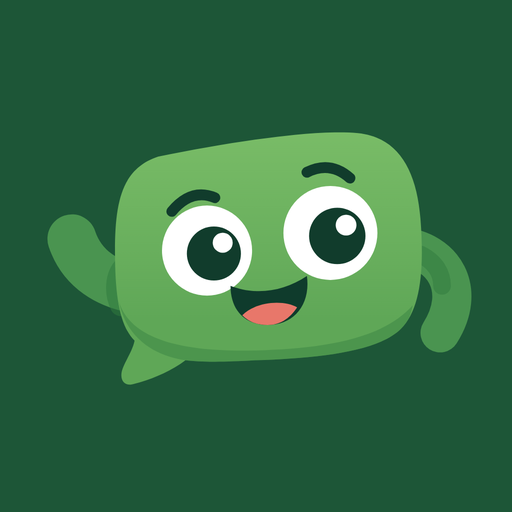
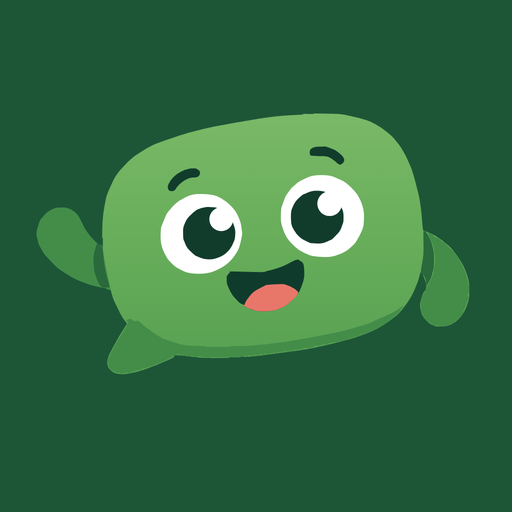
Mascota calcada de la imagen de Iván: mismas formas, sombras y colores
Contornos de cuerpo, brazo, ojos, cejas y boca trazados desde su imagen y
suavizados en vectores; cada ojo parpadea por separado. Icono regenerado.
sw.js a lexi-pwa-9.

Claude-Session: https://claude.ai/code/session_01N2aDUP8LgaaE7Rjav7c54a

Changed region(s): [[0.0625, 0.2188, 0.9062, 0.75], [0.9062, 0.5625, 0.9375, 0.625], [0.0938, 0.5, 0.125, 0.5312]]

diff --git a/index.html b/index.html
@@ -26,7 +26,7 @@
   --fd:'Fredoka',system-ui,sans-serif;--fi:'Inter',system-ui,-apple-system,'Segoe UI',Roboto,sans-serif;
   --sh:0 1px 2px rgba(17,60,44,.05),0 4px 14px rgba(17,60,44,.07);
   --lexi-sombra:rgba(26,50,35,.14);
-  --m1:#5FA757;--m2:#79BC67;--m3:#2F7A3E;--mbr:#4A9450;--mojo:#113C2C;--mboca:#0F3B2C;--mlengua:#E8776A;
+  --m0:#57A052;--m1:#67AD5A;--m2:#7AB968;--m3:#2A693B;--mbr:#438D49;--mojo:#113C2C;--mboca:#0F3B2C;--mlengua:#E8776A;
   --lx-hoja:#5FA757;--lx-prof:#1D5637;--lx-claro:#A9D69A;--lx-flor:#E8776A;--lx-tinta:#113C2C;--lx-blanco:#fff;
 }
 :root[data-theme="dark"]{
@@ -149,14 +149,12 @@ body{font-family:var(--fi);-webkit-text-size-adjust:100%}
 .mas .cuerpo{animation:lexi-flota 3.4s ease-in-out infinite alternate;transform-origin:50% 90%;transform-box:fill-box}
 .mas .sombra{animation:lexi-sombra 3.4s ease-in-out infinite alternate;transform-origin:50% 50%;transform-box:fill-box}
 .mas .ojo{animation:lexi-parpadea 5.2s infinite;transform-origin:50% 50%;transform-box:fill-box}
-.mas .brazo-i{animation:lexi-saluda 1.6s ease-in-out infinite alternate;transform-origin:60px 105px}
-.mas .brazo-d{animation:lexi-mece 3.4s ease-in-out infinite alternate;transform-origin:196px 85px}
+.mas .brazo-i{animation:lexi-saluda 1.6s ease-in-out infinite alternate;transform-origin:36.3px 77.5px}
 .mas.quieta *{animation:none!important}
 @keyframes lexi-flota{from{transform:translateY(0) rotate(-1.5deg)}to{transform:translateY(-6px) rotate(1.5deg)}}
 @keyframes lexi-sombra{from{transform:scaleX(1);opacity:.14}to{transform:scaleX(.85);opacity:.08}}
 @keyframes lexi-parpadea{0%,91%,100%{transform:scaleY(1)}94%{transform:scaleY(.08)}}
-@keyframes lexi-saluda{from{transform:rotate(-8deg)}to{transform:rotate(14deg)}}
-@keyframes lexi-mece{from{transform:rotate(-4deg)}to{transform:rotate(5deg)}}
+@keyframes lexi-saluda{from{transform:rotate(-6deg)}to{transform:rotate(12deg)}}
 @media (prefers-reduced-motion:reduce){.mas *{animation:none!important}}
 </style>
 </head>
@@ -208,28 +206,21 @@ function toast(m) { const t = document.createElement('div'); t.className = 'toas
 
 /* ---- js/14-mascota.js ---- */
 /* ===== Mascota de Lexi: un bocadillo de palabras (diseño de Iván, 17-11-2026) =====
-   Dibujada en vectores, como las de Calculi, Lectori y Barri: se ve nítida a cualquier tamaño.
-   Flota, parpadea y saluda con el brazo izquierdo. Los brazos son piezas aparte que nacen
-   dentro del cuerpo: al girar nunca se abre un hueco. Colores en --m1…--mlengua (estilos.css). */
+   Calcada en vectores de la imagen de Iván (tools: contornos suavizados), como las mascotas de
+   Calculi, Lectori y Barri: se ve nítida a cualquier tamaño. Flota, parpadea y saluda con el brazo
+   izquierdo; el brazo es una pieza aparte con un trozo escondido bajo el cuerpo, así que al girar
+   nunca se abre un hueco. Colores en --m0…--mlengua (estilos.css). */
 function mascota(tam = 240, quieta = false) {
-  const ojo = (cx, cy, r) => `<g class="ojo"><circle cx="${cx}" cy="${cy}" r="${r}" fill="#fff"/>`
-    + `<circle cx="${cx + 3.5}" cy="${cy + 1.5}" r="${(r * .6).toFixed(1)}" fill="var(--mojo)"/>`
-    + `<circle cx="${cx + 8}" cy="${cy - 4}" r="${(r * .22).toFixed(1)}" fill="#fff"/></g>`;
-  const borde = 'M70 38C110 30 150 24 172 26C192 28 202 44 204 70C206 96 204 116 194 126C182 138 150 141 120 142C104 143 92 143 84 142C76 148 66 152 58 154C52 156 50 151 52 146C54 141 57 137 58 132C50 124 48 108 48 86C48 60 52 44 70 38Z';
-  return `<svg class="mas${quieta ? ' quieta' : ''}" width="${tam}" height="${Math.round(tam * 176 / 240)}" viewBox="0 0 240 176" role="img" aria-label="Lexi, la mascota">
-  <defs><linearGradient id="lexi-g" x1="0" y1="0" x2="0" y2="1"><stop offset="0" style="stop-color:var(--m2)"/><stop offset=".75" style="stop-color:var(--m1)"/></linearGradient></defs>
-  <ellipse class="sombra" cx="124" cy="166" rx="56" ry="6" fill="currentColor" opacity=".12"/>
+  return `<svg class="mas${quieta ? ' quieta' : ''}" width="${tam}" height="${Math.round(tam * 148 / 216)}" viewBox="0 0 216 148" role="img" aria-label="Lexi, la mascota">
+  <defs><linearGradient id="lexi-g" gradientUnits="userSpaceOnUse" x1="0" y1="3" x2="0" y2="130"><stop offset="0" style="stop-color:var(--m2)"/><stop offset=".5" style="stop-color:var(--m1)"/><stop offset="1" style="stop-color:var(--m0)"/></linearGradient></defs>
+  <ellipse class="sombra" cx="111" cy="137.5" rx="55" ry="6.8" fill="currentColor" opacity=".12"/>
   <g class="cuerpo">
-    <g class="brazo-d"><path d="M194 84C216 86 228 106 214 128" fill="none" stroke="var(--mbr)" stroke-width="20" stroke-linecap="round"/>
-      <path d="M204 88C212 92 215 98 215 104" fill="none" stroke="var(--m3)" stroke-width="9" stroke-linecap="round" opacity=".5"/></g>
-    <g class="brazo-i"><path d="M62 106C44 104 31 95 26 80" fill="none" stroke="var(--mbr)" stroke-width="25" stroke-linecap="round"/>
-      <path d="M53 94C48 99 48 108 51 114" fill="none" stroke="var(--m3)" stroke-width="11" stroke-linecap="round" opacity=".55"/></g>
-    <path d="${borde}" fill="url(#lexi-g)"/>
-    <path d="M50 112C56 132 84 138 120 137C152 136 184 132 200 114C199 120 197 123 194 126C182 138 150 141 120 142C104 143 92 143 84 142C70 140 54 132 50 112Z" fill="var(--m3)" opacity=".4"/>
-    <path d="M77 66Q87 54 99 59M146 46Q158 40 168 49" fill="none" stroke="var(--mojo)" stroke-width="5.5" stroke-linecap="round"/>
-    ${ojo(95, 86, 23)}${ojo(158, 77, 24)}
-    <path d="M107 104C120 109 134 107 146 99C148 114 139 124 126 124C115 124 107 117 107 104Z" fill="var(--mboca)"/>
-    <path d="M113 119C120 112 134 111 141 115C137 121 132 124 126 124C120 124 116 122 113 119Z" fill="var(--mlengua)"/>
+    <g class="brazo-i"><ellipse cx="39.8" cy="77.5" rx="9" ry="11" fill="var(--mbr)"/><path d="M8.5 51.0C7.6 51.7 6.4 53.0 5.8 53.8C5.1 54.5 4.9 54.7 4.5 55.8C4.1 56.8 3.5 59.1 3.2 60.2C3.0 61.4 3.1 61.5 3.2 62.5C3.4 63.5 3.8 65.2 4.2 66.5C4.8 67.8 5.6 69.2 6.2 70.2C6.9 71.2 6.8 71.2 8.0 72.5C9.2 73.8 11.5 76.2 13.2 77.8C15.0 79.2 17.1 80.5 18.8 81.5C20.4 82.5 21.6 83.0 23.2 83.8C24.9 84.5 26.8 85.2 28.5 85.8C30.2 86.3 31.9 86.7 33.5 87.0C35.1 87.3 37.2 87.5 38.0 87.5C38.8 87.5 38.6 88.7 38.2 86.8C37.9 84.8 36.3 79.2 35.8 76.0C35.2 72.8 35.2 69.3 34.8 67.8C34.2 66.2 33.7 67.3 32.8 66.5C31.8 65.7 30.1 64.0 29.0 62.8C27.9 61.5 27.2 60.4 26.2 58.8C25.2 57.1 24.0 54.2 23.0 52.8C22.0 51.3 21.2 50.9 20.2 50.2C19.2 49.6 18.2 49.2 17.0 49.0C15.8 48.8 14.0 48.9 13.0 49.0C12.0 49.1 12.0 49.2 11.2 49.5C10.5 49.8 9.4 50.3 8.5 51.0Z" fill="var(--mbr)"/><path d="M32.0 66.2C31.6 67.1 30.8 70.0 30.5 71.8C30.2 73.5 30.4 75.5 30.5 77.0C30.6 78.5 30.7 79.4 31.2 81.0C31.8 82.6 32.7 85.5 33.8 86.5C34.8 87.5 37.1 87.1 37.8 87.0C38.4 86.9 38.1 87.3 37.8 85.8C37.4 84.2 36.3 80.7 35.8 77.8C35.2 74.8 35.0 70.1 34.5 68.2C34.0 66.4 33.4 67.1 33.0 66.8C32.6 66.4 32.4 65.4 32.0 66.2Z" fill="var(--m3)"/></g>
+    <path d="M208.8 81.0C208.2 79.3 207.4 77.2 206.2 75.2C205.1 73.3 203.2 70.7 202.0 69.2C200.8 67.8 200.3 67.4 199.2 66.5C198.2 65.6 197.0 64.6 195.8 63.8C194.5 62.9 193.2 62.1 192.0 61.5C190.8 60.9 189.2 60.4 188.5 60.0C187.8 59.6 188.0 60.8 187.8 59.2C187.5 57.8 187.3 53.7 187.0 51.0C186.7 48.3 186.4 46.2 185.8 43.2C185.1 40.3 184.0 35.8 183.2 33.2C182.5 30.7 182.1 29.7 181.2 27.8C180.4 25.8 179.2 23.5 178.2 21.8C177.2 20.0 176.3 18.8 175.2 17.5C174.2 16.2 173.5 15.3 172.0 14.0C170.5 12.7 168.2 10.9 166.2 9.8C164.3 8.6 162.6 7.8 160.2 7.0C157.9 6.2 154.5 5.5 152.2 5.0C150.0 4.5 149.2 4.4 146.5 4.2C143.8 4.1 137.8 4.0 136.0 4.0C134.2 4.0 136.7 4.2 135.8 4.2C134.8 4.3 131.4 4.2 130.5 4.2C129.6 4.3 131.8 4.4 130.2 4.5C128.8 4.6 125.0 4.7 121.5 5.0C118.0 5.3 114.8 5.6 109.2 6.5C103.7 7.4 93.8 9.1 88.2 10.2C82.7 11.4 80.1 12.0 75.8 13.2C71.4 14.5 65.4 16.5 62.0 17.8C58.6 19.0 57.0 20.0 55.2 21.0C53.5 22.0 52.5 22.7 51.2 23.5C50.0 24.3 49.4 24.7 48.0 26.0C46.6 27.3 44.3 29.7 43.0 31.2C41.7 32.8 41.2 33.5 40.2 35.2C39.3 37.0 37.9 40.1 37.2 41.8C36.6 43.4 36.7 42.9 36.2 45.0C35.8 47.1 35.0 51.2 34.8 54.2C34.5 57.3 34.5 61.7 34.5 63.2C34.5 64.8 34.7 62.5 34.8 63.5C34.8 64.5 34.8 67.4 35.0 69.5C35.2 71.6 35.3 72.6 36.0 76.0C36.7 79.4 38.1 86.6 39.0 90.0C39.9 93.4 40.6 94.3 41.5 96.2C42.4 98.2 43.5 100.2 44.2 101.5C45.0 102.8 45.7 103.4 46.0 104.0C46.3 104.6 46.7 103.8 46.0 105.0C45.3 106.2 43.3 109.2 42.0 111.5C40.7 113.8 39.1 116.8 38.2 118.5C37.4 120.2 37.2 121.1 37.0 122.0C36.8 122.9 36.9 123.4 37.0 124.0C37.1 124.6 37.2 125.1 37.8 125.8C38.2 126.4 39.2 127.3 40.0 127.8C40.8 128.2 41.8 128.4 42.8 128.5C43.7 128.6 44.4 128.7 45.8 128.5C47.1 128.3 48.8 128.0 50.8 127.5C52.8 127.0 54.9 126.3 57.8 125.2C60.6 124.2 65.6 122.0 67.8 121.0C69.9 120.0 67.9 119.5 70.5 119.5C73.1 119.5 79.2 120.5 83.2 120.8C87.3 121.0 92.8 120.8 94.8 120.8C96.7 120.7 94.0 120.5 95.0 120.5C96.0 120.5 99.5 120.5 100.5 120.5C101.5 120.5 99.7 120.3 100.8 120.2C101.8 120.2 102.2 120.5 107.0 120.0C111.8 119.5 124.2 117.8 129.8 117.0C135.3 116.2 136.6 115.8 140.2 115.0C143.9 114.2 148.6 113.0 151.5 112.2C154.4 111.5 155.6 111.0 157.8 110.2C159.9 109.5 162.8 108.3 164.5 107.5C166.2 106.7 166.5 106.6 168.2 105.5C170.0 104.4 173.1 102.1 174.8 100.8C176.4 99.4 176.8 99.0 178.0 97.5C179.2 96.0 180.8 93.8 182.0 91.8C183.2 89.7 184.2 87.2 185.0 85.2C185.8 83.3 186.2 81.1 186.5 80.2C186.8 79.4 186.8 80.1 187.0 80.2C187.2 80.4 187.4 80.5 187.8 81.2C188.1 82.0 189.0 83.9 189.2 85.0C189.5 86.1 189.5 86.9 189.2 87.8C189.0 88.6 188.2 89.1 187.8 90.2C187.3 91.4 186.7 93.2 186.5 94.5C186.3 95.8 186.5 97.1 186.8 98.2C187.0 99.4 187.4 100.3 188.0 101.2C188.6 102.2 189.7 103.3 190.5 104.0C191.3 104.7 192.1 105.0 192.8 105.2C193.4 105.5 193.4 105.7 194.5 105.8C195.6 105.8 198.0 105.8 199.2 105.5C200.5 105.2 201.5 104.7 202.2 104.2C203.0 103.8 203.3 103.7 204.0 103.0C204.7 102.3 205.8 101.3 206.5 100.2C207.2 99.2 208.0 97.9 208.5 96.5C209.0 95.1 209.5 93.9 209.8 92.0C210.0 90.1 209.9 87.1 209.8 85.2C209.6 83.4 209.3 82.7 208.8 81.0Z" fill="url(#lexi-g)"/>
+    <path d="M178.2 96.0C177.5 96.4 175.9 97.8 173.5 99.0C171.1 100.2 166.3 102.4 163.8 103.5C161.2 104.6 160.8 104.7 158.0 105.5C155.2 106.3 152.5 107.3 146.8 108.5C141.0 109.7 130.4 111.7 123.8 112.8C117.1 113.8 111.7 114.3 107.0 114.8C102.3 115.2 97.7 115.1 95.8 115.2C93.8 115.4 97.5 115.5 95.5 115.5C93.5 115.5 86.0 115.5 84.0 115.5C82.0 115.5 85.2 115.4 83.8 115.2C82.2 115.1 77.1 115.0 75.0 114.8C72.9 114.5 72.7 114.5 71.0 114.0C69.3 113.5 66.4 112.6 64.8 112.0C63.1 111.4 62.8 111.2 61.2 110.2C59.7 109.3 57.0 107.4 55.5 106.2C54.0 105.1 53.0 103.8 52.0 103.2C51.0 102.8 50.3 103.4 49.8 103.2C49.2 103.1 49.1 102.7 48.8 102.5C48.4 102.3 48.0 102.2 47.5 102.2C47.0 102.3 46.2 102.6 46.0 103.0C45.8 103.4 47.4 102.8 46.5 104.8C45.6 106.7 42.1 112.0 40.8 114.5C39.4 117.0 38.8 118.2 38.2 119.5C37.7 120.8 37.4 121.4 37.2 122.2C37.1 123.1 37.2 124.0 37.5 124.8C37.8 125.5 38.5 126.2 39.2 126.8C40.0 127.3 41.2 127.8 41.8 128.0C42.3 128.2 42.5 127.7 42.8 127.8C43.0 127.8 42.9 128.2 43.2 128.2C43.6 128.3 44.6 128.3 45.0 128.2C45.4 128.2 45.4 127.8 45.8 127.8C46.1 127.7 46.6 128.0 47.0 128.0C47.4 128.0 48.0 127.9 48.2 127.8C48.5 127.6 48.6 127.3 48.8 127.2C48.9 127.2 48.9 127.6 49.2 127.5C49.6 127.4 50.2 126.9 50.8 126.8C51.3 126.6 52.3 126.6 52.8 126.5C53.2 126.4 52.6 126.3 53.5 126.0C54.4 125.7 56.0 125.5 58.0 124.8C60.0 124.0 63.7 122.5 65.8 121.5C67.8 120.5 69.5 119.4 70.5 119.0C71.5 118.6 71.2 118.9 71.5 119.0C71.8 119.1 72.0 119.5 72.2 119.5C72.5 119.5 72.5 119.2 72.8 119.2C73.0 119.3 73.6 119.7 74.0 119.8C74.4 119.8 74.6 119.5 75.0 119.5C75.4 119.5 75.8 120.0 76.2 120.0C76.7 120.0 77.2 119.7 77.8 119.8C78.2 119.8 78.6 120.2 79.2 120.2C79.9 120.3 80.7 120.0 81.5 120.0C82.3 120.0 80.9 120.5 84.0 120.5C87.1 120.5 97.3 120.4 100.2 120.2C103.2 120.1 101.2 119.8 101.8 119.8C102.3 119.7 103.2 120.0 103.8 120.0C104.2 120.0 104.2 119.5 104.8 119.5C105.2 119.5 106.2 119.8 106.8 119.8C107.2 119.7 107.3 119.3 107.8 119.2C108.2 119.2 108.9 119.5 109.2 119.5C109.6 119.5 109.6 119.0 110.0 119.0C110.4 119.0 111.1 119.3 111.5 119.2C111.9 119.2 112.1 118.8 112.5 118.8C112.9 118.7 113.3 119.0 113.8 119.0C114.2 119.0 114.7 118.5 115.0 118.5C115.3 118.5 115.5 118.8 115.8 118.8C116.0 118.7 116.4 118.3 116.8 118.2C117.1 118.2 117.4 118.5 117.8 118.5C118.1 118.5 118.5 118.0 118.8 118.0C119.0 118.0 119.2 118.3 119.5 118.2C119.8 118.2 120.0 117.8 120.2 117.8C120.5 117.7 121.0 118.0 121.2 118.0C121.5 118.0 121.7 117.5 122.0 117.5C122.3 117.5 122.9 117.8 123.2 117.8C123.6 117.7 123.7 117.3 124.0 117.2C124.3 117.2 124.7 117.5 125.0 117.5C125.3 117.5 125.4 117.1 125.8 117.0C126.1 116.9 126.9 116.8 127.2 116.8C127.6 116.8 127.8 117.0 128.0 117.0C128.2 117.0 128.5 116.5 128.8 116.5C129.0 116.5 129.5 116.8 129.8 116.8C130.0 116.7 129.6 116.4 130.5 116.2C131.4 116.1 134.4 115.9 135.2 115.8C136.1 115.6 135.5 115.4 135.8 115.2C136.0 115.1 136.7 115.0 137.0 115.0C137.3 115.0 137.1 115.3 137.5 115.2C137.9 115.2 138.7 114.7 139.5 114.5C140.3 114.3 141.9 114.4 142.5 114.2C143.1 114.1 141.5 114.1 143.0 113.8C144.5 113.4 148.0 113.0 151.5 112.0C155.0 111.0 161.0 108.8 164.0 107.5C167.0 106.2 168.0 105.5 169.5 104.5C171.0 103.5 172.0 102.8 173.2 101.8C174.5 100.7 176.4 98.9 177.0 98.2C177.6 97.6 176.8 98.0 177.0 97.8C177.2 97.5 178.0 96.8 178.2 96.5C178.5 96.2 179.0 95.6 178.2 96.0ZM190.0 61.0C190.0 61.8 192.0 65.2 192.5 66.8C193.0 68.3 193.1 69.0 193.2 70.2C193.4 71.5 193.5 72.6 193.5 74.0C193.5 75.4 193.2 77.1 193.0 78.5C192.8 79.9 193.0 80.0 192.0 82.2C191.0 84.5 188.1 90.2 187.2 92.2C186.4 94.3 186.8 93.5 186.8 94.5C186.7 95.5 186.7 97.0 187.0 98.2C187.3 99.5 188.0 101.0 188.8 102.0C189.5 103.0 190.3 103.7 191.2 104.2C192.2 104.8 193.3 105.3 194.5 105.5C195.7 105.7 197.2 105.6 198.2 105.5C199.3 105.4 200.0 105.1 200.8 104.8C201.5 104.4 202.2 104.0 203.0 103.5C203.8 103.0 204.6 102.2 205.2 101.5C205.9 100.8 206.1 100.9 206.8 99.5C207.4 98.1 208.8 94.5 209.2 93.2C209.7 92.0 209.5 92.2 209.5 91.8C209.5 91.3 209.2 90.9 209.2 90.5C209.3 90.1 209.7 90.4 209.8 89.5C209.8 88.6 209.9 87.2 209.5 85.2C209.1 83.3 208.3 80.2 207.2 77.8C206.2 75.3 204.6 72.8 203.0 70.8C201.4 68.7 198.7 66.4 197.8 65.5C196.8 64.6 197.6 65.8 197.2 65.5C196.9 65.2 196.4 64.5 195.8 64.0C195.1 63.5 193.8 63.1 193.2 62.8C192.7 62.4 193.0 62.3 192.5 62.0C192.0 61.7 190.0 60.2 190.0 61.0Z" fill="var(--mbr)"/><path d="M188.5 60.2C188.2 60.2 188.1 59.2 188.0 61.0C187.9 62.8 188.2 67.9 188.0 71.0C187.8 74.1 186.8 78.0 186.8 79.8C186.8 81.5 187.6 80.7 188.0 81.2C188.4 81.8 188.8 82.5 189.0 83.2C189.2 84.0 189.4 85.5 189.5 86.0C189.6 86.5 189.4 86.5 189.8 86.0C190.1 85.5 191.0 83.8 191.5 82.8C192.0 81.7 192.2 80.5 192.5 79.5C192.8 78.5 192.9 78.2 193.0 76.8C193.1 75.3 193.2 72.6 193.0 70.8C192.8 68.9 192.3 67.1 191.8 65.5C191.2 63.9 190.0 61.9 189.5 61.0C189.0 60.1 188.8 60.2 188.5 60.2Z" fill="var(--m3)"/>
+    <path d="M81.0 31.5C80.8 31.2 80.6 31.0 80.2 30.8C79.9 30.5 79.5 30.3 79.0 30.2C78.5 30.2 77.8 30.2 77.0 30.2C76.2 30.3 75.4 30.5 74.5 30.8C73.6 31.0 72.7 31.5 71.8 32.0C70.8 32.5 69.8 33.3 69.0 34.0C68.2 34.7 67.8 35.3 67.2 36.0C66.8 36.7 66.2 37.6 66.0 38.2C65.8 38.9 65.8 39.5 66.0 40.0C66.2 40.5 66.5 40.9 67.0 41.0C67.5 41.1 68.4 41.2 69.0 40.8C69.6 40.3 70.0 39.3 70.8 38.5C71.5 37.7 72.8 36.6 73.8 36.0C74.7 35.4 75.6 35.0 76.5 34.8C77.4 34.5 78.6 34.6 79.2 34.5C79.9 34.4 80.2 34.3 80.5 34.0C80.8 33.7 81.2 33.2 81.2 32.8C81.3 32.3 81.2 31.8 81.0 31.5ZM133.8 21.8C133.6 22.2 133.6 22.8 133.8 23.2C133.9 23.7 133.5 24.0 134.8 24.2C136.0 24.5 139.8 24.2 141.5 24.5C143.2 24.8 144.0 25.6 145.0 26.2C146.0 26.9 146.9 27.9 147.5 28.2C148.1 28.6 148.3 28.5 148.8 28.2C149.2 28.0 149.8 27.5 150.0 27.0C150.2 26.5 150.2 26.0 150.0 25.5C149.8 25.0 149.5 24.4 148.8 23.8C148.0 23.1 146.9 22.1 145.8 21.5C144.6 20.9 143.0 20.3 142.0 20.0C141.0 19.7 141.0 19.8 140.0 19.8C139.0 19.8 137.2 19.8 136.2 20.0C135.3 20.2 134.9 20.5 134.5 20.8C134.1 21.0 133.9 21.3 133.8 21.8Z" fill="var(--mojo)"/>
+    <g class="ojo"><path d="M137.0 33.5C135.7 33.6 134.8 33.8 133.5 34.2C132.2 34.7 130.4 35.6 129.2 36.2C128.1 36.9 127.5 37.3 126.8 38.0C126.0 38.7 125.2 39.3 124.5 40.2C123.8 41.2 122.9 42.2 122.2 43.5C121.6 44.8 120.9 46.9 120.5 48.0C120.1 49.1 120.1 49.0 120.0 50.2C119.9 51.5 119.8 54.2 120.0 55.8C120.2 57.3 120.6 58.3 121.0 59.5C121.4 60.7 121.9 61.8 122.5 62.8C123.1 63.8 123.6 64.5 124.5 65.5C125.4 66.5 126.8 67.8 128.0 68.8C129.2 69.7 130.7 70.4 132.0 71.0C133.3 71.6 134.1 72.0 136.0 72.2C137.9 72.5 141.2 72.7 143.2 72.5C145.2 72.3 146.8 71.7 148.0 71.2C149.2 70.8 149.6 70.5 150.5 70.0C151.4 69.5 152.3 68.8 153.2 68.0C154.2 67.2 155.1 66.4 156.0 65.0C156.9 63.6 158.2 61.0 158.8 59.5C159.3 58.0 159.4 57.7 159.5 56.2C159.6 54.8 159.7 52.5 159.5 51.0C159.3 49.5 158.9 48.2 158.5 47.0C158.1 45.8 157.5 44.7 157.0 43.8C156.5 42.8 156.1 42.2 155.2 41.2C154.4 40.3 153.0 38.8 152.0 38.0C151.0 37.2 150.7 36.9 149.5 36.2C148.3 35.6 146.3 34.7 145.0 34.2C143.7 33.8 142.8 33.6 141.5 33.5C140.2 33.4 138.3 33.4 137.0 33.5Z" fill="#fff"/><path d="M135.2 41.0C133.7 41.2 132.0 42.1 131.0 42.5C130.0 42.9 130.2 42.9 129.5 43.5C128.8 44.1 127.7 45.1 127.0 46.0C126.3 46.9 125.9 47.9 125.5 48.8C125.1 49.6 124.9 50.1 124.8 51.2C124.6 52.4 124.7 54.7 124.8 55.8C124.8 56.8 125.0 57.0 125.2 57.8C125.5 58.5 126.0 59.5 126.5 60.2C127.0 61.0 127.5 61.7 128.0 62.2C128.5 62.8 129.0 63.2 129.8 63.8C130.5 64.2 131.6 64.9 132.5 65.2C133.4 65.6 133.8 65.9 135.0 66.0C136.2 66.1 138.1 66.2 139.5 66.0C140.9 65.8 142.6 64.9 143.5 64.5C144.4 64.1 144.3 64.2 145.0 63.5C145.7 62.8 147.1 61.4 147.8 60.5C148.4 59.6 148.7 58.9 149.0 58.0C149.3 57.1 149.7 56.5 149.8 55.2C149.8 54.0 150.0 52.1 149.5 50.5C149.0 48.9 147.9 46.8 147.0 45.5C146.1 44.2 145.4 43.7 144.2 43.0C143.1 42.3 141.8 41.6 140.2 41.2C138.8 40.9 136.8 40.8 135.2 41.0Z" fill="var(--mojo)"/><path d="M137.3 47.1a5.9 5.9 0 1 0 11.8 0a5.9 5.9 0 1 0 -11.8 0Z" fill="#fff"/></g><g class="ojo"><path d="M79.5 42.5C77.8 42.6 77.3 42.9 76.2 43.2C75.2 43.6 74.0 44.2 73.0 44.8C72.0 45.3 71.2 45.7 70.2 46.5C69.2 47.3 67.8 48.8 67.0 49.8C66.2 50.7 65.9 51.0 65.2 52.2C64.6 53.5 63.5 56.2 63.0 57.5C62.5 58.8 62.6 59.0 62.5 60.2C62.4 61.5 62.4 63.4 62.5 64.8C62.6 66.1 62.9 67.2 63.2 68.2C63.6 69.3 64.0 70.3 64.5 71.2C65.0 72.2 65.5 73.1 66.2 74.0C67.0 74.9 68.2 76.1 69.0 76.8C69.8 77.4 69.8 77.5 70.8 78.0C71.7 78.5 73.2 79.3 74.5 79.8C75.8 80.2 77.1 80.4 78.5 80.5C79.9 80.6 81.4 80.6 82.8 80.5C84.1 80.4 85.5 80.1 86.8 79.8C88.0 79.4 89.3 78.9 90.5 78.2C91.7 77.6 93.0 76.8 94.0 76.0C95.0 75.2 95.9 74.2 96.8 73.2C97.6 72.2 98.5 70.9 99.0 70.0C99.5 69.1 99.6 69.0 100.0 67.8C100.4 66.5 101.0 64.1 101.2 62.8C101.5 61.4 101.4 60.9 101.2 59.8C101.1 58.6 100.9 57.1 100.5 55.8C100.1 54.4 99.3 52.8 98.8 51.8C98.2 50.7 97.8 50.1 97.0 49.2C96.2 48.4 95.3 47.3 94.2 46.5C93.2 45.7 92.0 44.9 90.8 44.2C89.5 43.6 88.4 43.0 86.5 42.8C84.6 42.5 81.2 42.4 79.5 42.5Z" fill="#fff"/><path d="M83.8 48.8C82.7 48.9 81.8 49.2 81.0 49.5C80.2 49.8 79.9 49.8 79.0 50.5C78.1 51.2 76.3 52.8 75.5 53.8C74.7 54.8 74.4 55.6 74.0 56.5C73.6 57.4 73.4 57.9 73.2 59.0C73.1 60.1 73.2 62.2 73.2 63.2C73.3 64.3 73.4 64.4 73.8 65.2C74.1 66.1 74.5 67.2 75.2 68.2C76.0 69.2 77.5 70.6 78.2 71.2C79.0 71.9 78.9 71.9 79.8 72.2C80.6 72.6 82.2 73.3 83.5 73.5C84.8 73.7 86.3 73.8 87.8 73.5C89.2 73.2 91.0 72.5 92.2 71.8C93.5 71.0 94.6 69.9 95.5 68.8C96.4 67.6 97.1 66.0 97.5 65.0C97.9 64.0 97.9 63.7 98.0 62.8C98.1 61.8 98.2 60.8 98.0 59.5C97.8 58.2 96.9 56.0 96.5 55.0C96.1 54.0 96.0 54.1 95.5 53.5C95.0 52.9 94.2 52.0 93.2 51.2C92.2 50.5 90.5 49.7 89.5 49.2C88.5 48.8 88.2 48.8 87.2 48.8C86.3 48.7 84.8 48.6 83.8 48.8Z" fill="var(--mojo)"/><path d="M85.7 54.5a5.7 5.7 0 1 0 11.4 0a5.7 5.7 0 1 0 -11.4 0Z" fill="#fff"/></g>
+    <path d="M130.8 76.5C130.5 75.2 129.9 74.9 129.2 74.5C128.6 74.1 128.5 73.5 127.0 74.0C125.5 74.5 122.5 76.4 120.2 77.2C118.0 78.1 115.1 78.8 113.5 79.2C111.9 79.7 113.3 79.7 110.5 79.8C107.7 79.8 99.2 79.5 96.8 79.5C94.2 79.5 95.9 79.7 95.5 80.0C95.1 80.3 94.5 81.1 94.2 81.5C94.0 81.9 94.0 81.8 94.0 82.5C94.0 83.2 93.9 84.3 94.2 85.5C94.6 86.7 95.4 88.4 96.0 89.5C96.6 90.6 97.0 91.2 97.8 92.0C98.5 92.8 99.5 93.9 100.2 94.5C101.0 95.1 101.8 95.2 102.2 95.5C102.7 95.8 102.1 95.9 102.8 96.2C103.4 96.6 105.1 97.4 106.2 97.8C107.4 98.1 108.1 98.4 109.8 98.5C111.4 98.6 114.4 98.5 116.0 98.2C117.6 98.0 118.1 97.8 119.2 97.2C120.4 96.8 121.6 96.3 123.0 95.2C124.4 94.2 126.4 92.1 127.5 90.8C128.6 89.4 128.9 88.7 129.5 87.2C130.1 85.8 130.8 83.8 131.0 82.0C131.2 80.2 131.0 77.8 130.8 76.5Z" fill="var(--mboca)"/><path d="M128.0 89.2C127.7 88.8 126.9 88.0 126.0 87.5C125.1 87.0 123.7 86.3 122.8 86.0C121.8 85.7 122.0 85.5 120.5 85.5C119.0 85.5 115.5 85.6 114.0 85.8C112.5 85.9 112.9 85.9 111.8 86.5C110.6 87.1 108.3 88.2 107.0 89.2C105.7 90.2 104.8 91.5 104.0 92.5C103.2 93.5 102.8 94.7 102.5 95.2C102.2 95.8 102.0 95.6 102.5 96.0C103.0 96.4 104.3 97.1 105.5 97.5C106.7 97.9 108.0 98.4 109.8 98.5C111.5 98.6 114.4 98.5 116.0 98.2C117.6 98.0 118.1 97.8 119.2 97.2C120.4 96.8 121.8 96.2 123.0 95.2C124.2 94.3 125.9 92.6 126.8 91.8C127.6 90.9 127.8 90.4 128.0 90.0C128.2 89.6 128.3 89.7 128.0 89.2Z" fill="var(--mlengua)"/>
   </g>
 </svg>`;
 }

diff --git a/src/js/14-mascota.js b/src/js/14-mascota.js
@@ -1,26 +1,19 @@
 /* ===== Mascota de Lexi: un bocadillo de palabras (diseño de Iván, 17-11-2026) =====
-   Dibujada en vectores, como las de Calculi, Lectori y Barri: se ve nítida a cualquier tamaño.
-   Flota, parpadea y saluda con el brazo izquierdo. Los brazos son piezas aparte que nacen
-   dentro del cuerpo: al girar nunca se abre un hueco. Colores en --m1…--mlengua (estilos.css). */
+   Calcada en vectores de la imagen de Iván (tools: contornos suavizados), como las mascotas de
+   Calculi, Lectori y Barri: se ve nítida a cualquier tamaño. Flota, parpadea y saluda con el brazo
+   izquierdo; el brazo es una pieza aparte con un trozo escondido bajo el cuerpo, así que al girar
+   nunca se abre un hueco. Colores en --m0…--mlengua (estilos.css). */
 function mascota(tam = 240, quieta = false) {
-  const ojo = (cx, cy, r) => `<g class="ojo"><circle cx="${cx}" cy="${cy}" r="${r}" fill="#fff"/>`
-    + `<circle cx="${cx + 3.5}" cy="${cy + 1.5}" r="${(r * .6).toFixed(1)}" fill="var(--mojo)"/>`
-    + `<circle cx="${cx + 8}" cy="${cy - 4}" r="${(r * .22).toFixed(1)}" fill="#fff"/></g>`;
-  const borde = 'M70 38C110 30 150 24 172 26C192 28 202 44 204 70C206 96 204 116 194 126C182 138 150 141 120 142C104 143 92 143 84 142C76 148 66 152 58 154C52 156 50 151 52 146C54 141 57 137 58 132C50 124 48 108 48 86C48 60 52 44 70 38Z';
-  return `<svg class="mas${quieta ? ' quieta' : ''}" width="${tam}" height="${Math.round(tam * 176 / 240)}" viewBox="0 0 240 176" role="img" aria-label="Lexi, la mascota">
-  <defs><linearGradient id="lexi-g" x1="0" y1="0" x2="0" y2="1"><stop offset="0" style="stop-color:var(--m2)"/><stop offset=".75" style="stop-color:var(--m1)"/></linearGradient></defs>
-  <ellipse class="sombra" cx="124" cy="166" rx="56" ry="6" fill="currentColor" opacity=".12"/>
+  return `<svg class="mas${quieta ? ' quieta' : ''}" width="${tam}" height="${Math.round(tam * 148 / 216)}" viewBox="0 0 216 148" role="img" aria-label="Lexi, la mascota">
+  <defs><linearGradient id="lexi-g" gradientUnits="userSpaceOnUse" x1="0" y1="3" x2="0" y2="130"><stop offset="0" style="stop-color:var(--m2)"/><stop offset=".5" style="stop-color:var(--m1)"/><stop offset="1" style="stop-color:var(--m0)"/></linearGradient></defs>
+  <ellipse class="sombra" cx="111" cy="137.5" rx="55" ry="6.8" fill="currentColor" opacity=".12"/>
   <g class="cuerpo">
-    <g class="brazo-d"><path d="M194 84C216 86 228 106 214 128" fill="none" stroke="var(--mbr)" stroke-width="20" stroke-linecap="round"/>
-      <path d="M204 88C212 92 215 98 215 104" fill="none" stroke="var(--m3)" stroke-width="9" stroke-linecap="round" opacity=".5"/></g>
-    <g class="brazo-i"><path d="M62 106C44 104 31 95 26 80" fill="none" stroke="var(--mbr)" stroke-width="25" stroke-linecap="round"/>
-      <path d="M53 94C48 99 48 108 51 114" fill="none" stroke="var(--m3)" stroke-width="11" stroke-linecap="round" opacity=".55"/></g>
-    <path d="${borde}" fill="url(#lexi-g)"/>
-    <path d="M50 112C56 132 84 138 120 137C152 136 184 132 200 114C199 120 197 123 194 126C182 138 150 141 120 142C104 143 92 143 84 142C70 140 54 132 50 112Z" fill="var(--m3)" opacity=".4"/>
-    <path d="M77 66Q87 54 99 59M146 46Q158 40 168 49" fill="none" stroke="var(--mojo)" stroke-width="5.5" stroke-linecap="round"/>
-    ${ojo(95, 86, 23)}${ojo(158, 77, 24)}
-    <path d="M107 104C120 109 134 107 146 99C148 114 139 124 126 124C115 124 107 117 107 104Z" fill="var(--mboca)"/>
-    <path d="M113 119C120 112 134 111 141 115C137 121 132 124 126 124C120 124 116 122 113 119Z" fill="var(--mlengua)"/>
+    <g class="brazo-i"><ellipse cx="39.8" cy="77.5" rx="9" ry="11" fill="var(--mbr)"/><path d="M8.5 51.0C7.6 51.7 6.4 53.0 5.8 53.8C5.1 54.5 4.9 54.7 4.5 55.8C4.1 56.8 3.5 59.1 3.2 60.2C3.0 61.4 3.1 61.5 3.2 62.5C3.4 63.5 3.8 65.2 4.2 66.5C4.8 67.8 5.6 69.2 6.2 70.2C6.9 71.2 6.8 71.2 8.0 72.5C9.2 73.8 11.5 76.2 13.2 77.8C15.0 79.2 17.1 80.5 18.8 81.5C20.4 82.5 21.6 83.0 23.2 83.8C24.9 84.5 26.8 85.2 28.5 85.8C30.2 86.3 31.9 86.7 33.5 87.0C35.1 87.3 37.2 87.5 38.0 87.5C38.8 87.5 38.6 88.7 38.2 86.8C37.9 84.8 36.3 79.2 35.8 76.0C35.2 72.8 35.2 69.3 34.8 67.8C34.2 66.2 33.7 67.3 32.8 66.5C31.8 65.7 30.1 64.0 29.0 62.8C27.9 61.5 27.2 60.4 26.2 58.8C25.2 57.1 24.0 54.2 23.0 52.8C22.0 51.3 21.2 50.9 20.2 50.2C19.2 49.6 18.2 49.2 17.0 49.0C15.8 48.8 14.0 48.9 13.0 49.0C12.0 49.1 12.0 49.2 11.2 49.5C10.5 49.8 9.4 50.3 8.5 51.0Z" fill="var(--mbr)"/><path d="M32.0 66.2C31.6 67.1 30.8 70.0 30.5 71.8C30.2 73.5 30.4 75.5 30.5 77.0C30.6 78.5 30.7 79.4 31.2 81.0C31.8 82.6 32.7 85.5 33.8 86.5C34.8 87.5 37.1 87.1 37.8 87.0C38.4 86.9 38.1 87.3 37.8 85.8C37.4 84.2 36.3 80.7 35.8 77.8C35.2 74.8 35.0 70.1 34.5 68.2C34.0 66.4 33.4 67.1 33.0 66.8C32.6 66.4 32.4 65.4 32.0 66.2Z" fill="var(--m3)"/></g>
+    <path d="M208.8 81.0C208.2 79.3 207.4 77.2 206.2 75.2C205.1 73.3 203.2 70.7 202.0 69.2C200.8 67.8 200.3 67.4 199.2 66.5C198.2 65.6 197.0 64.6 195.8 63.8C194.5 62.9 193.2 62.1 192.0 61.5C190.8 60.9 189.2 60.4 188.5 60.0C187.8 59.6 188.0 60.8 187.8 59.2C187.5 57.8 187.3 53.7 187.0 51.0C186.7 48.3 186.4 46.2 185.8 43.2C185.1 40.3 184.0 35.8 183.2 33.2C182.5 30.7 182.1 29.7 181.2 27.8C180.4 25.8 179.2 23.5 178.2 21.8C177.2 20.0 176.3 18.8 175.2 17.5C174.2 16.2 173.5 15.3 172.0 14.0C170.5 12.7 168.2 10.9 166.2 9.8C164.3 8.6 162.6 7.8 160.2 7.0C157.9 6.2 154.5 5.5 152.2 5.0C150.0 4.5 149.2 4.4 146.5 4.2C143.8 4.1 137.8 4.0 136.0 4.0C134.2 4.0 136.7 4.2 135.8 4.2C134.8 4.3 131.4 4.2 130.5 4.2C129.6 4.3 131.8 4.4 130.2 4.5C128.8 4.6 125.0 4.7 121.5 5.0C118.0 5.3 114.8 5.6 109.2 6.5C103.7 7.4 93.8 9.1 88.2 10.2C82.7 11.4 80.1 12.0 75.8 13.2C71.4 14.5 65.4 16.5 62.0 17.8C58.6 19.0 57.0 20.0 55.2 21.0C53.5 22.0 52.5 22.7 51.2 23.5C50.0 24.3 49.4 24.7 48.0 26.0C46.6 27.3 44.3 29.7 43.0 31.2C41.7 32.8 41.2 33.5 40.2 35.2C39.3 37.0 37.9 40.1 37.2 41.8C36.6 43.4 36.7 42.9 36.2 45.0C35.8 47.1 35.0 51.2 34.8 54.2C34.5 57.3 34.5 61.7 34.5 63.2C34.5 64.8 34.7 62.5 34.8 63.5C34.8 64.5 34.8 67.4 35.0 69.5C35.2 71.6 35.3 72.6 36.0 76.0C36.7 79.4 38.1 86.6 39.0 90.0C39.9 93.4 40.6 94.3 41.5 96.2C42.4 98.2 43.5 100.2 44.2 101.5C45.0 102.8 45.7 103.4 46.0 104.0C46.3 104.6 46.7 103.8 46.0 105.0C45.3 106.2 43.3 109.2 42.0 111.5C40.7 113.8 39.1 116.8 38.2 118.5C37.4 120.2 37.2 121.1 37.0 122.0C36.8 122.9 36.9 123.4 37.0 124.0C37.1 124.6 37.2 125.1 37.8 125.8C38.2 126.4 39.2 127.3 40.0 127.8C40.8 128.2 41.8 128.4 42.8 128.5C43.7 128.6 44.4 128.7 45.8 128.5C47.1 128.3 48.8 128.0 50.8 127.5C52.8 127.0 54.9 126.3 57.8 125.2C60.6 124.2 65.6 122.0 67.8 121.0C69.9 120.0 67.9 119.5 70.5 119.5C73.1 119.5 79.2 120.5 83.2 120.8C87.3 121.0 92.8 120.8 94.8 120.8C96.7 120.7 94.0 120.5 95.0 120.5C96.0 120.5 99.5 120.5 100.5 120.5C101.5 120.5 99.7 120.3 100.8 120.2C101.8 120.2 102.2 120.5 107.0 120.0C111.8 119.5 124.2 117.8 129.8 117.0C135.3 116.2 136.6 115.8 140.2 115.0C143.9 114.2 148.6 113.0 151.5 112.2C154.4 111.5 155.6 111.0 157.8 110.2C159.9 109.5 162.8 108.3 164.5 107.5C166.2 106.7 166.5 106.6 168.2 105.5C170.0 104.4 173.1 102.1 174.8 100.8C176.4 99.4 176.8 99.0 178.0 97.5C179.2 96.0 180.8 93.8 182.0 91.8C183.2 89.7 184.2 87.2 185.0 85.2C185.8 83.3 186.2 81.1 186.5 80.2C186.8 79.4 186.8 80.1 187.0 80.2C187.2 80.4 187.4 80.5 187.8 81.2C188.1 82.0 189.0 83.9 189.2 85.0C189.5 86.1 189.5 86.9 189.2 87.8C189.0 88.6 188.2 89.1 187.8 90.2C187.3 91.4 186.7 93.2 186.5 94.5C186.3 95.8 186.5 97.1 186.8 98.2C187.0 99.4 187.4 100.3 188.0 101.2C188.6 102.2 189.7 103.3 190.5 104.0C191.3 104.7 192.1 105.0 192.8 105.2C193.4 105.5 193.4 105.7 194.5 105.8C195.6 105.8 198.0 105.8 199.2 105.5C200.5 105.2 201.5 104.7 202.2 104.2C203.0 103.8 203.3 103.7 204.0 103.0C204.7 102.3 205.8 101.3 206.5 100.2C207.2 99.2 208.0 97.9 208.5 96.5C209.0 95.1 209.5 93.9 209.8 92.0C210.0 90.1 209.9 87.1 209.8 85.2C209.6 83.4 209.3 82.7 208.8 81.0Z" fill="url(#lexi-g)"/>
+    <path d="M178.2 96.0C177.5 96.4 175.9 97.8 173.5 99.0C171.1 100.2 166.3 102.4 163.8 103.5C161.2 104.6 160.8 104.7 158.0 105.5C155.2 106.3 152.5 107.3 146.8 108.5C141.0 109.7 130.4 111.7 123.8 112.8C117.1 113.8 111.7 114.3 107.0 114.8C102.3 115.2 97.7 115.1 95.8 115.2C93.8 115.4 97.5 115.5 95.5 115.5C93.5 115.5 86.0 115.5 84.0 115.5C82.0 115.5 85.2 115.4 83.8 115.2C82.2 115.1 77.1 115.0 75.0 114.8C72.9 114.5 72.7 114.5 71.0 114.0C69.3 113.5 66.4 112.6 64.8 112.0C63.1 111.4 62.8 111.2 61.2 110.2C59.7 109.3 57.0 107.4 55.5 106.2C54.0 105.1 53.0 103.8 52.0 103.2C51.0 102.8 50.3 103.4 49.8 103.2C49.2 103.1 49.1 102.7 48.8 102.5C48.4 102.3 48.0 102.2 47.5 102.2C47.0 102.3 46.2 102.6 46.0 103.0C45.8 103.4 47.4 102.8 46.5 104.8C45.6 106.7 42.1 112.0 40.8 114.5C39.4 117.0 38.8 118.2 38.2 119.5C37.7 120.8 37.4 121.4 37.2 122.2C37.1 123.1 37.2 124.0 37.5 124.8C37.8 125.5 38.5 126.2 39.2 126.8C40.0 127.3 41.2 127.8 41.8 128.0C42.3 128.2 42.5 127.7 42.8 127.8C43.0 127.8 42.9 128.2 43.2 128.2C43.6 128.3 44.6 128.3 45.0 128.2C45.4 128.2 45.4 127.8 45.8 127.8C46.1 127.7 46.6 128.0 47.0 128.0C47.4 128.0 48.0 127.9 48.2 127.8C48.5 127.6 48.6 127.3 48.8 127.2C48.9 127.2 48.9 127.6 49.2 127.5C49.6 127.4 50.2 126.9 50.8 126.8C51.3 126.6 52.3 126.6 52.8 126.5C53.2 126.4 52.6 126.3 53.5 126.0C54.4 125.7 56.0 125.5 58.0 124.8C60.0 124.0 63.7 122.5 65.8 121.5C67.8 120.5 69.5 119.4 70.5 119.0C71.5 118.6 71.2 118.9 71.5 119.0C71.8 119.1 72.0 119.5 72.2 119.5C72.5 119.5 72.5 119.2 72.8 119.2C73.0 119.3 73.6 119.7 74.0 119.8C74.4 119.8 74.6 119.5 75.0 119.5C75.4 119.5 75.8 120.0 76.2 120.0C76.7 120.0 77.2 119.7 77.8 119.8C78.2 119.8 78.6 120.2 79.2 120.2C79.9 120.3 80.7 120.0 81.5 120.0C82.3 120.0 80.9 120.5 84.0 120.5C87.1 120.5 97.3 120.4 100.2 120.2C103.2 120.1 101.2 119.8 101.8 119.8C102.3 119.7 103.2 120.0 103.8 120.0C104.2 120.0 104.2 119.5 104.8 119.5C105.2 119.5 106.2 119.8 106.8 119.8C107.2 119.7 107.3 119.3 107.8 119.2C108.2 119.2 108.9 119.5 109.2 119.5C109.6 119.5 109.6 119.0 110.0 119.0C110.4 119.0 111.1 119.3 111.5 119.2C111.9 119.2 112.1 118.8 112.5 118.8C112.9 118.7 113.3 119.0 113.8 119.0C114.2 119.0 114.7 118.5 115.0 118.5C115.3 118.5 115.5 118.8 115.8 118.8C116.0 118.7 116.4 118.3 116.8 118.2C117.1 118.2 117.4 118.5 117.8 118.5C118.1 118.5 118.5 118.0 118.8 118.0C119.0 118.0 119.2 118.3 119.5 118.2C119.8 118.2 120.0 117.8 120.2 117.8C120.5 117.7 121.0 118.0 121.2 118.0C121.5 118.0 121.7 117.5 122.0 117.5C122.3 117.5 122.9 117.8 123.2 117.8C123.6 117.7 123.7 117.3 124.0 117.2C124.3 117.2 124.7 117.5 125.0 117.5C125.3 117.5 125.4 117.1 125.8 117.0C126.1 116.9 126.9 116.8 127.2 116.8C127.6 116.8 127.8 117.0 128.0 117.0C128.2 117.0 128.5 116.5 128.8 116.5C129.0 116.5 129.5 116.8 129.8 116.8C130.0 116.7 129.6 116.4 130.5 116.2C131.4 116.1 134.4 115.9 135.2 115.8C136.1 115.6 135.5 115.4 135.8 115.2C136.0 115.1 136.7 115.0 137.0 115.0C137.3 115.0 137.1 115.3 137.5 115.2C137.9 115.2 138.7 114.7 139.5 114.5C140.3 114.3 141.9 114.4 142.5 114.2C143.1 114.1 141.5 114.1 143.0 113.8C144.5 113.4 148.0 113.0 151.5 112.0C155.0 111.0 161.0 108.8 164.0 107.5C167.0 106.2 168.0 105.5 169.5 104.5C171.0 103.5 172.0 102.8 173.2 101.8C174.5 100.7 176.4 98.9 177.0 98.2C177.6 97.6 176.8 98.0 177.0 97.8C177.2 97.5 178.0 96.8 178.2 96.5C178.5 96.2 179.0 95.6 178.2 96.0ZM190.0 61.0C190.0 61.8 192.0 65.2 192.5 66.8C193.0 68.3 193.1 69.0 193.2 70.2C193.4 71.5 193.5 72.6 193.5 74.0C193.5 75.4 193.2 77.1 193.0 78.5C192.8 79.9 193.0 80.0 192.0 82.2C191.0 84.5 188.1 90.2 187.2 92.2C186.4 94.3 186.8 93.5 186.8 94.5C186.7 95.5 186.7 97.0 187.0 98.2C187.3 99.5 188.0 101.0 188.8 102.0C189.5 103.0 190.3 103.7 191.2 104.2C192.2 104.8 193.3 105.3 194.5 105.5C195.7 105.7 197.2 105.6 198.2 105.5C199.3 105.4 200.0 105.1 200.8 104.8C201.5 104.4 202.2 104.0 203.0 103.5C203.8 103.0 204.6 102.2 205.2 101.5C205.9 100.8 206.1 100.9 206.8 99.5C207.4 98.1 208.8 94.5 209.2 93.2C209.7 92.0 209.5 92.2 209.5 91.8C209.5 91.3 209.2 90.9 209.2 90.5C209.3 90.1 209.7 90.4 209.8 89.5C209.8 88.6 209.9 87.2 209.5 85.2C209.1 83.3 208.3 80.2 207.2 77.8C206.2 75.3 204.6 72.8 203.0 70.8C201.4 68.7 198.7 66.4 197.8 65.5C196.8 64.6 197.6 65.8 197.2 65.5C196.9 65.2 196.4 64.5 195.8 64.0C195.1 63.5 193.8 63.1 193.2 62.8C192.7 62.4 193.0 62.3 192.5 62.0C192.0 61.7 190.0 60.2 190.0 61.0Z" fill="var(--mbr)"/><path d="M188.5 60.2C188.2 60.2 188.1 59.2 188.0 61.0C187.9 62.8 188.2 67.9 188.0 71.0C187.8 74.1 186.8 78.0 186.8 79.8C186.8 81.5 187.6 80.7 188.0 81.2C188.4 81.8 188.8 82.5 189.0 83.2C189.2 84.0 189.4 85.5 189.5 86.0C189.6 86.5 189.4 86.5 189.8 86.0C190.1 85.5 191.0 83.8 191.5 82.8C192.0 81.7 192.2 80.5 192.5 79.5C192.8 78.5 192.9 78.2 193.0 76.8C193.1 75.3 193.2 72.6 193.0 70.8C192.8 68.9 192.3 67.1 191.8 65.5C191.2 63.9 190.0 61.9 189.5 61.0C189.0 60.1 188.8 60.2 188.5 60.2Z" fill="var(--m3)"/>
+    <path d="M81.0 31.5C80.8 31.2 80.6 31.0 80.2 30.8C79.9 30.5 79.5 30.3 79.0 30.2C78.5 30.2 77.8 30.2 77.0 30.2C76.2 30.3 75.4 30.5 74.5 30.8C73.6 31.0 72.7 31.5 71.8 32.0C70.8 32.5 69.8 33.3 69.0 34.0C68.2 34.7 67.8 35.3 67.2 36.0C66.8 36.7 66.2 37.6 66.0 38.2C65.8 38.9 65.8 39.5 66.0 40.0C66.2 40.5 66.5 40.9 67.0 41.0C67.5 41.1 68.4 41.2 69.0 40.8C69.6 40.3 70.0 39.3 70.8 38.5C71.5 37.7 72.8 36.6 73.8 36.0C74.7 35.4 75.6 35.0 76.5 34.8C77.4 34.5 78.6 34.6 79.2 34.5C79.9 34.4 80.2 34.3 80.5 34.0C80.8 33.7 81.2 33.2 81.2 32.8C81.3 32.3 81.2 31.8 81.0 31.5ZM133.8 21.8C133.6 22.2 133.6 22.8 133.8 23.2C133.9 23.7 133.5 24.0 134.8 24.2C136.0 24.5 139.8 24.2 141.5 24.5C143.2 24.8 144.0 25.6 145.0 26.2C146.0 26.9 146.9 27.9 147.5 28.2C148.1 28.6 148.3 28.5 148.8 28.2C149.2 28.0 149.8 27.5 150.0 27.0C150.2 26.5 150.2 26.0 150.0 25.5C149.8 25.0 149.5 24.4 148.8 23.8C148.0 23.1 146.9 22.1 145.8 21.5C144.6 20.9 143.0 20.3 142.0 20.0C141.0 19.7 141.0 19.8 140.0 19.8C139.0 19.8 137.2 19.8 136.2 20.0C135.3 20.2 134.9 20.5 134.5 20.8C134.1 21.0 133.9 21.3 133.8 21.8Z" fill="var(--mojo)"/>
+    <g class="ojo"><path d="M137.0 33.5C135.7 33.6 134.8 33.8 133.5 34.2C132.2 34.7 130.4 35.6 129.2 36.2C128.1 36.9 127.5 37.3 126.8 38.0C126.0 38.7 125.2 39.3 124.5 40.2C123.8 41.2 122.9 42.2 122.2 43.5C121.6 44.8 120.9 46.9 120.5 48.0C120.1 49.1 120.1 49.0 120.0 50.2C119.9 51.5 119.8 54.2 120.0 55.8C120.2 57.3 120.6 58.3 121.0 59.5C121.4 60.7 121.9 61.8 122.5 62.8C123.1 63.8 123.6 64.5 124.5 65.5C125.4 66.5 126.8 67.8 128.0 68.8C129.2 69.7 130.7 70.4 132.0 71.0C133.3 71.6 134.1 72.0 136.0 72.2C137.9 72.5 141.2 72.7 143.2 72.5C145.2 72.3 146.8 71.7 148.0 71.2C149.2 70.8 149.6 70.5 150.5 70.0C151.4 69.5 152.3 68.8 153.2 68.0C154.2 67.2 155.1 66.4 156.0 65.0C156.9 63.6 158.2 61.0 158.8 59.5C159.3 58.0 159.4 57.7 159.5 56.2C159.6 54.8 159.7 52.5 159.5 51.0C159.3 49.5 158.9 48.2 158.5 47.0C158.1 45.8 157.5 44.7 157.0 43.8C156.5 42.8 156.1 42.2 155.2 41.2C154.4 40.3 153.0 38.8 152.0 38.0C151.0 37.2 150.7 36.9 149.5 36.2C148.3 35.6 146.3 34.7 145.0 34.2C143.7 33.8 142.8 33.6 141.5 33.5C140.2 33.4 138.3 33.4 137.0 33.5Z" fill="#fff"/><path d="M135.2 41.0C133.7 41.2 132.0 42.1 131.0 42.5C130.0 42.9 130.2 42.9 129.5 43.5C128.8 44.1 127.7 45.1 127.0 46.0C126.3 46.9 125.9 47.9 125.5 48.8C125.1 49.6 124.9 50.1 124.8 51.2C124.6 52.4 124.7 54.7 124.8 55.8C124.8 56.8 125.0 57.0 125.2 57.8C125.5 58.5 126.0 59.5 126.5 60.2C127.0 61.0 127.5 61.7 128.0 62.2C128.5 62.8 129.0 63.2 129.8 63.8C130.5 64.2 131.6 64.9 132.5 65.2C133.4 65.6 133.8 65.9 135.0 66.0C136.2 66.1 138.1 66.2 139.5 66.0C140.9 65.8 142.6 64.9 143.5 64.5C144.4 64.1 144.3 64.2 145.0 63.5C145.7 62.8 147.1 61.4 147.8 60.5C148.4 59.6 148.7 58.9 149.0 58.0C149.3 57.1 149.7 56.5 149.8 55.2C149.8 54.0 150.0 52.1 149.5 50.5C149.0 48.9 147.9 46.8 147.0 45.5C146.1 44.2 145.4 43.7 144.2 43.0C143.1 42.3 141.8 41.6 140.2 41.2C138.8 40.9 136.8 40.8 135.2 41.0Z" fill="var(--mojo)"/><path d="M137.3 47.1a5.9 5.9 0 1 0 11.8 0a5.9 5.9 0 1 0 -11.8 0Z" fill="#fff"/></g><g class="ojo"><path d="M79.5 42.5C77.8 42.6 77.3 42.9 76.2 43.2C75.2 43.6 74.0 44.2 73.0 44.8C72.0 45.3 71.2 45.7 70.2 46.5C69.2 47.3 67.8 48.8 67.0 49.8C66.2 50.7 65.9 51.0 65.2 52.2C64.6 53.5 63.5 56.2 63.0 57.5C62.5 58.8 62.6 59.0 62.5 60.2C62.4 61.5 62.4 63.4 62.5 64.8C62.6 66.1 62.9 67.2 63.2 68.2C63.6 69.3 64.0 70.3 64.5 71.2C65.0 72.2 65.5 73.1 66.2 74.0C67.0 74.9 68.2 76.1 69.0 76.8C69.8 77.4 69.8 77.5 70.8 78.0C71.7 78.5 73.2 79.3 74.5 79.8C75.8 80.2 77.1 80.4 78.5 80.5C79.9 80.6 81.4 80.6 82.8 80.5C84.1 80.4 85.5 80.1 86.8 79.8C88.0 79.4 89.3 78.9 90.5 78.2C91.7 77.6 93.0 76.8 94.0 76.0C95.0 75.2 95.9 74.2 96.8 73.2C97.6 72.2 98.5 70.9 99.0 70.0C99.5 69.1 99.6 69.0 100.0 67.8C100.4 66.5 101.0 64.1 101.2 62.8C101.5 61.4 101.4 60.9 101.2 59.8C101.1 58.6 100.9 57.1 100.5 55.8C100.1 54.4 99.3 52.8 98.8 51.8C98.2 50.7 97.8 50.1 97.0 49.2C96.2 48.4 95.3 47.3 94.2 46.5C93.2 45.7 92.0 44.9 90.8 44.2C89.5 43.6 88.4 43.0 86.5 42.8C84.6 42.5 81.2 42.4 79.5 42.5Z" fill="#fff"/><path d="M83.8 48.8C82.7 48.9 81.8 49.2 81.0 49.5C80.2 49.8 79.9 49.8 79.0 50.5C78.1 51.2 76.3 52.8 75.5 53.8C74.7 54.8 74.4 55.6 74.0 56.5C73.6 57.4 73.4 57.9 73.2 59.0C73.1 60.1 73.2 62.2 73.2 63.2C73.3 64.3 73.4 64.4 73.8 65.2C74.1 66.1 74.5 67.2 75.2 68.2C76.0 69.2 77.5 70.6 78.2 71.2C79.0 71.9 78.9 71.9 79.8 72.2C80.6 72.6 82.2 73.3 83.5 73.5C84.8 73.7 86.3 73.8 87.8 73.5C89.2 73.2 91.0 72.5 92.2 71.8C93.5 71.0 94.6 69.9 95.5 68.8C96.4 67.6 97.1 66.0 97.5 65.0C97.9 64.0 97.9 63.7 98.0 62.8C98.1 61.8 98.2 60.8 98.0 59.5C97.8 58.2 96.9 56.0 96.5 55.0C96.1 54.0 96.0 54.1 95.5 53.5C95.0 52.9 94.2 52.0 93.2 51.2C92.2 50.5 90.5 49.7 89.5 49.2C88.5 48.8 88.2 48.8 87.2 48.8C86.3 48.7 84.8 48.6 83.8 48.8Z" fill="var(--mojo)"/><path d="M85.7 54.5a5.7 5.7 0 1 0 11.4 0a5.7 5.7 0 1 0 -11.4 0Z" fill="#fff"/></g>
+    <path d="M130.8 76.5C130.5 75.2 129.9 74.9 129.2 74.5C128.6 74.1 128.5 73.5 127.0 74.0C125.5 74.5 122.5 76.4 120.2 77.2C118.0 78.1 115.1 78.8 113.5 79.2C111.9 79.7 113.3 79.7 110.5 79.8C107.7 79.8 99.2 79.5 96.8 79.5C94.2 79.5 95.9 79.7 95.5 80.0C95.1 80.3 94.5 81.1 94.2 81.5C94.0 81.9 94.0 81.8 94.0 82.5C94.0 83.2 93.9 84.3 94.2 85.5C94.6 86.7 95.4 88.4 96.0 89.5C96.6 90.6 97.0 91.2 97.8 92.0C98.5 92.8 99.5 93.9 100.2 94.5C101.0 95.1 101.8 95.2 102.2 95.5C102.7 95.8 102.1 95.9 102.8 96.2C103.4 96.6 105.1 97.4 106.2 97.8C107.4 98.1 108.1 98.4 109.8 98.5C111.4 98.6 114.4 98.5 116.0 98.2C117.6 98.0 118.1 97.8 119.2 97.2C120.4 96.8 121.6 96.3 123.0 95.2C124.4 94.2 126.4 92.1 127.5 90.8C128.6 89.4 128.9 88.7 129.5 87.2C130.1 85.8 130.8 83.8 131.0 82.0C131.2 80.2 131.0 77.8 130.8 76.5Z" fill="var(--mboca)"/><path d="M128.0 89.2C127.7 88.8 126.9 88.0 126.0 87.5C125.1 87.0 123.7 86.3 122.8 86.0C121.8 85.7 122.0 85.5 120.5 85.5C119.0 85.5 115.5 85.6 114.0 85.8C112.5 85.9 112.9 85.9 111.8 86.5C110.6 87.1 108.3 88.2 107.0 89.2C105.7 90.2 104.8 91.5 104.0 92.5C103.2 93.5 102.8 94.7 102.5 95.2C102.2 95.8 102.0 95.6 102.5 96.0C103.0 96.4 104.3 97.1 105.5 97.5C106.7 97.9 108.0 98.4 109.8 98.5C111.5 98.6 114.4 98.5 116.0 98.2C117.6 98.0 118.1 97.8 119.2 97.2C120.4 96.8 121.8 96.2 123.0 95.2C124.2 94.3 125.9 92.6 126.8 91.8C127.6 90.9 127.8 90.4 128.0 90.0C128.2 89.6 128.3 89.7 128.0 89.2Z" fill="var(--mlengua)"/>
   </g>
 </svg>`;
 }

diff --git a/src/mascota.css b/src/mascota.css
@@ -5,12 +5,10 @@
 .mas .cuerpo{animation:lexi-flota 3.4s ease-in-out infinite alternate;transform-origin:50% 90%;transform-box:fill-box}
 .mas .sombra{animation:lexi-sombra 3.4s ease-in-out infinite alternate;transform-origin:50% 50%;transform-box:fill-box}
 .mas .ojo{animation:lexi-parpadea 5.2s infinite;transform-origin:50% 50%;transform-box:fill-box}
-.mas .brazo-i{animation:lexi-saluda 1.6s ease-in-out infinite alternate;transform-origin:60px 105px}
-.mas .brazo-d{animation:lexi-mece 3.4s ease-in-out infinite alternate;transform-origin:196px 85px}
+.mas .brazo-i{animation:lexi-saluda 1.6s ease-in-out infinite alternate;transform-origin:36.3px 77.5px}
 .mas.quieta *{animation:none!important}
 @keyframes lexi-flota{from{transform:translateY(0) rotate(-1.5deg)}to{transform:translateY(-6px) rotate(1.5deg)}}
 @keyframes lexi-sombra{from{transform:scaleX(1);opacity:.14}to{transform:scaleX(.85);opacity:.08}}
 @keyframes lexi-parpadea{0%,91%,100%{transform:scaleY(1)}94%{transform:scaleY(.08)}}
-@keyframes lexi-saluda{from{transform:rotate(-8deg)}to{transform:rotate(14deg)}}
-@keyframes lexi-mece{from{transform:rotate(-4deg)}to{transform:rotate(5deg)}}
+@keyframes lexi-saluda{from{transform:rotate(-6deg)}to{transform:rotate(12deg)}}
 @media (prefers-reduced-motion:reduce){.mas *{animation:none!important}}

diff --git a/sw.js b/sw.js
@@ -1,6 +1,6 @@
 // Lexi: funciona sin conexión. Red primero y copia guardada si no hay red.
 // Prefijo propio «lexi-pwa-»: comparte dominio con Lectori, Barri y Calculi y solo borra sus propias cachés.
-const V="lexi-pwa-8",CORE=["./","index.html","manifest.webmanifest","icons/icon-192.png","icons/icon-512.png","fonts/fredoka.woff","fonts/fredoka-ext.woff","fonts/inter-400.woff","fonts/inter-500.woff","fonts/inter-600.woff"];
+const V="lexi-pwa-9",CORE=["./","index.html","manifest.webmanifest","icons/icon-192.png","icons/icon-512.png","fonts/fredoka.woff","fonts/fredoka-ext.woff","fonts/inter-400.woff","fonts/inter-500.woff","fonts/inter-600.woff"];
 self.addEventListener("install",e=>{e.waitUntil(caches.open(V).then(c=>Promise.all(CORE.map(u=>c.add(u).catch(()=>{})))).then(()=>self.skipWaiting()))});
 self.addEventListener("activate",e=>{e.waitUntil(caches.keys().then(k=>Promise.all(k.filter(x=>x.startsWith("lexi-pwa-")&&x!==V).map(x=>caches.delete(x)))).then(()=>self.clients.claim()))});
 self.addEventListener("fetch",e=>{const r=e.request;if(r.method!=="GET")return;const u=new URL(r.url);if(u.origin!==location.origin)return;

diff --git a/src/estilos.css b/src/estilos.css
@@ -13,7 +13,7 @@
   --fd:'Fredoka',system-ui,sans-serif;--fi:'Inter',system-ui,-apple-system,'Segoe UI',Roboto,sans-serif;
   --sh:0 1px 2px rgba(17,60,44,.05),0 4px 14px rgba(17,60,44,.07);
   --lexi-sombra:rgba(26,50,35,.14);
-  --m1:#5FA757;--m2:#79BC67;--m3:#2F7A3E;--mbr:#4A9450;--mojo:#113C2C;--mboca:#0F3B2C;--mlengua:#E8776A;
+  --m0:#57A052;--m1:#67AD5A;--m2:#7AB968;--m3:#2A693B;--mbr:#438D49;--mojo:#113C2C;--mboca:#0F3B2C;--mlengua:#E8776A;
   --lx-hoja:#5FA757;--lx-prof:#1D5637;--lx-claro:#A9D69A;--lx-flor:#E8776A;--lx-tinta:#113C2C;--lx-blanco:#fff;
 }
 :root[data-theme="dark"]{

diff --git a/ESTADO.md b/ESTADO.md
@@ -181,7 +181,7 @@ dice que no a alguno, se cambia:
   `ECOSISTEMA.md` se copió del repo `tabula`. **Desde ahora manda el repo**, no la copia del proyecto.
 - [x] Mascota y paleta elegidas por Iván (14-11-2026): bocadillo coral (imagen suya, sin piernas) y corales #ED7468 / #F2B4A9. Piezas en `img/mascota/` (cuerpo, brazo, css, demo.html); iconos en `icons/` (fondo #FFF1EC). Falta enlazarlos en manifest y en la pantalla de inicio (Fase 1).
 - [x] **Cambio de color y mascota (16-11-2026, Sonnet):** mascota verde con brazos (imagen de Iván) y paleta verde: #4CAF66 hoja, #2E7D4F profundo, #A7D9A7 claro, #FF6B6B coral solo para la lengua y la flor, #1A1E29 azul marino; fondo crema #FBF9F1 (oscuro #111A14). Variables en `src/estilos.css`; capas en `img/mascota/`; iconos nuevos; `sw.js` = `lexi-pwa-6` (brazo de la mascota separado sin arrastrar cuerpo). Sustituye a los corales del 14-11.
-- [x] **Mascota redibujada en vectores (17-11-2026, Opus):** como Calculi, la mascota es un SVG (`src/js/14-mascota.js`, función `mascota(tam, quieta)`; animación en `src/mascota.css`), nítida a cualquier tamaño. Brazos como piezas aparte que nacen dentro del cuerpo (no se rompen al saludar). Colores en `--m1…--mlengua` de `src/estilos.css`. Se borró `img/mascota/` (capas PNG). Iconos al estilo de Calculi: mascota quieta sobre fondo liso #1D5637 (se generan con la propia función). `sw.js` = `lexi-pwa-8`.
+- [x] **Mascota calcada en vectores de la imagen de Iván (17-11-2026, Opus):** contornos suavizados de su imagen (no a ojo), como Calculi, la mascota es un SVG (`src/js/14-mascota.js`, función `mascota(tam, quieta)`; animación en `src/mascota.css`), nítida a cualquier tamaño. Brazos como piezas aparte que nacen dentro del cuerpo (no se rompen al saludar). Colores en `--m1…--mlengua` de `src/estilos.css`. Se borró `img/mascota/` (capas PNG). Iconos al estilo de Calculi: mascota quieta sobre fondo liso #1D5637 (se generan con la propia función). `sw.js` = `lexi-pwa-9`.
 - [x] **Diseño final elegido por Iván (17-11-2026, Opus):** mascota nueva (cuerpo con sombra abajo, ojos verde oscuro) y colores de su imagen: fondo #FDFBF2, texto #113C2C, secundario #3C6E55, botón principal #1D5637 con letra blanca, botón secundario #E1F1D7; cuerpo de la mascota #5FA757–#73B762, lengua #E8776A. Oscuro: fondo #0F1E16, botón #8FCB80. Sustituye a la paleta del 16-11. `sw.js` = `lexi-pwa-7`.
 - [x] **La escala de 4 pasos pasa a ser una planta (16-11-2026):** semilla, brote, planta con hojas, planta con flor (`escalaSVG` en `src/js/15-escala.js`). Sustituye al bocadillo que crecía y se llenaba (14-11-2026, opciones 1+2).
 - [x] (antes) Dibujo de la escala de 4 pasos (14-11-2026): bocadillo de Lexi que crece y se llena (opciones 1+2). Componente `escalaSVG(paso)` y `escalaFila()` en `src/js/15-escala.js`; de momento se ve en el inicio como vista previa
